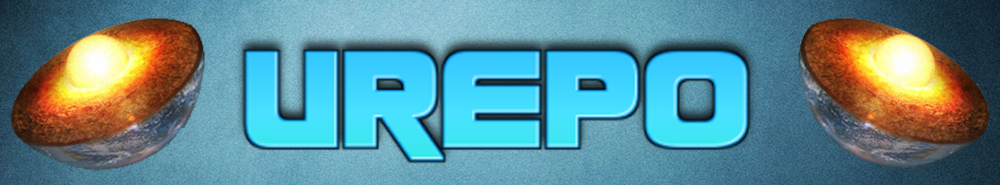
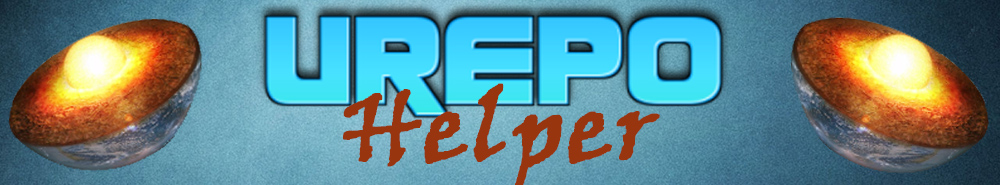
Update helper with images

diff --git a/default.py b/default.py
@@ -19,7 +19,7 @@ from resources.lib.settings import Settings
 from resources.lib.settings import os_path_split
 from resources.lib.settings import os_path_join
 
-ADDON = xbmcaddon.Addon(id='script.urepo')
+ADDON = xbmcaddon.Addon(id='script.urepo.helper')
 
 
 # Class to handle the creation of dummy addons
@@ -103,6 +103,9 @@ class URepo():
             if 'addons' in json_response:
                 for addon in json_response['addons']:
                     addonId = addon['idAddonKodi']
+                    # Skip the URepo helper addon, we don't want to install ourself
+                    if addonId in [None, "", "script.urepo.helper"]:
+                        continue
                     log("URepo: Addon collection: %s" % addonId)
                     addonDetails = {'id': addonId, 'name': addon['strAddon']}
                     collection.append(addonDetails)
@@ -138,15 +141,30 @@ if __name__ == '__main__':
 
     kodiVersion = Settings.getKodiVersion()
 
-    addonsToInstall = []
-
     # Make sure the username to link to the URepo repository is set
     username = Settings.getUsername()
+
+    urepoInstalled = False
 
     if username in [None, ""]:
         # Show a dialog detailing that the username is not set
         xbmcgui.Dialog().ok(ADDON.getLocalizedString(32001), ADDON.getLocalizedString(32005))
     else:
+        # Make sure the URepo repository is installed - otherwise things do not work
+        json_query = xbmc.executeJSONRPC('{"jsonrpc": "2.0", "method": "Addons.GetAddonDetails", "params": { "addonid": "repository.urepo", "properties": ["enabled", "broken", "name", "author"]  }, "id": 1}')
+        json_response = json.loads(json_query)
+
+        if ("result" in json_response) and ('addon' in json_response['result']):
+            addonItem = json_response['result']['addon']
+            if (addonItem['enabled'] is True) and (addonItem['broken'] is False) and (addonItem['type'] == 'xbmc.addon.repository') and (addonItem['addonid'] == 'repository.urepo'):
+                urepoInstalled = True
+
+        if not urepoInstalled:
+            xbmcgui.Dialog().ok(ADDON.getLocalizedString(32001), ADDON.getLocalizedString(32008))
+
+    addonsToInstall = []
+
+    if urepoInstalled:
         try:
             xbmc.executebuiltin("ActivateWindow(busydialog)")
 
@@ -220,10 +238,14 @@ if __name__ == '__main__':
         # into the Kodi installation, however they will be marked as disabled
         xbmc.executebuiltin("UpdateLocalAddons", True)
 
+        xbmc.sleep(1000)
+
         # Make a call for each addon to enable it as it will have been added as disabled originally
         for addonToInstall in addonsToInstall:
             log("URepo: Enabling addon %s" % addonToInstall['id'])
             xbmc.executeJSONRPC('{"jsonrpc": "2.0", "method": "Addons.SetAddonEnabled", "params": { "addonid": "%s", "enabled": "toggle" }, "id": 1}' % addonToInstall['id'])
+
+        xbmc.sleep(1000)
 
         # Now force a refresh of all of the addons so that we get the templates that
         # were created replaced with the real addons

diff --git a/resources/lib/settings.py b/resources/lib/settings.py
@@ -3,7 +3,7 @@ import os
 import xbmc
 import xbmcaddon
 
-ADDON = xbmcaddon.Addon(id='script.urepo')
+ADDON = xbmcaddon.Addon(id='script.urepo.helper')
 ADDON_ID = ADDON.getAddonInfo('id')
 
 

diff --git a/README.md b/README.md
@@ -1,11 +1,11 @@
-![URepo](icon.png)
+![URepoHelper](icon.png)
 
-The URepo addon allows you to automatically install the addons you have in your collection on the [urepo.org](http://www.urepo.org) website.
+The URepo Helper addon allows you to automatically install the addons you have in your collection on the [urepo.org](http://www.urepo.org) website.
 
 For more information you can have a look at the wiki entry:
 
-[Add-on:URepo](https://github.com/robwebset/script.urepo/wiki)
+[Add-on:URepoHelper](https://github.com/robwebset/script.urepo.helper/wiki)
 
 You can install this addon from: [Repository:URepo](http://www.urepo.org/)
 
-To ask questions or comment about URepo, please use the forum at [URepo.org](http://www.urepo.org/forum/viewtopic.php?t=1795)
+To ask questions or comment about URepo Helper, please use the forum at [URepo.org](http://www.urepo.org/forum/viewtopic.php?t=1795)
